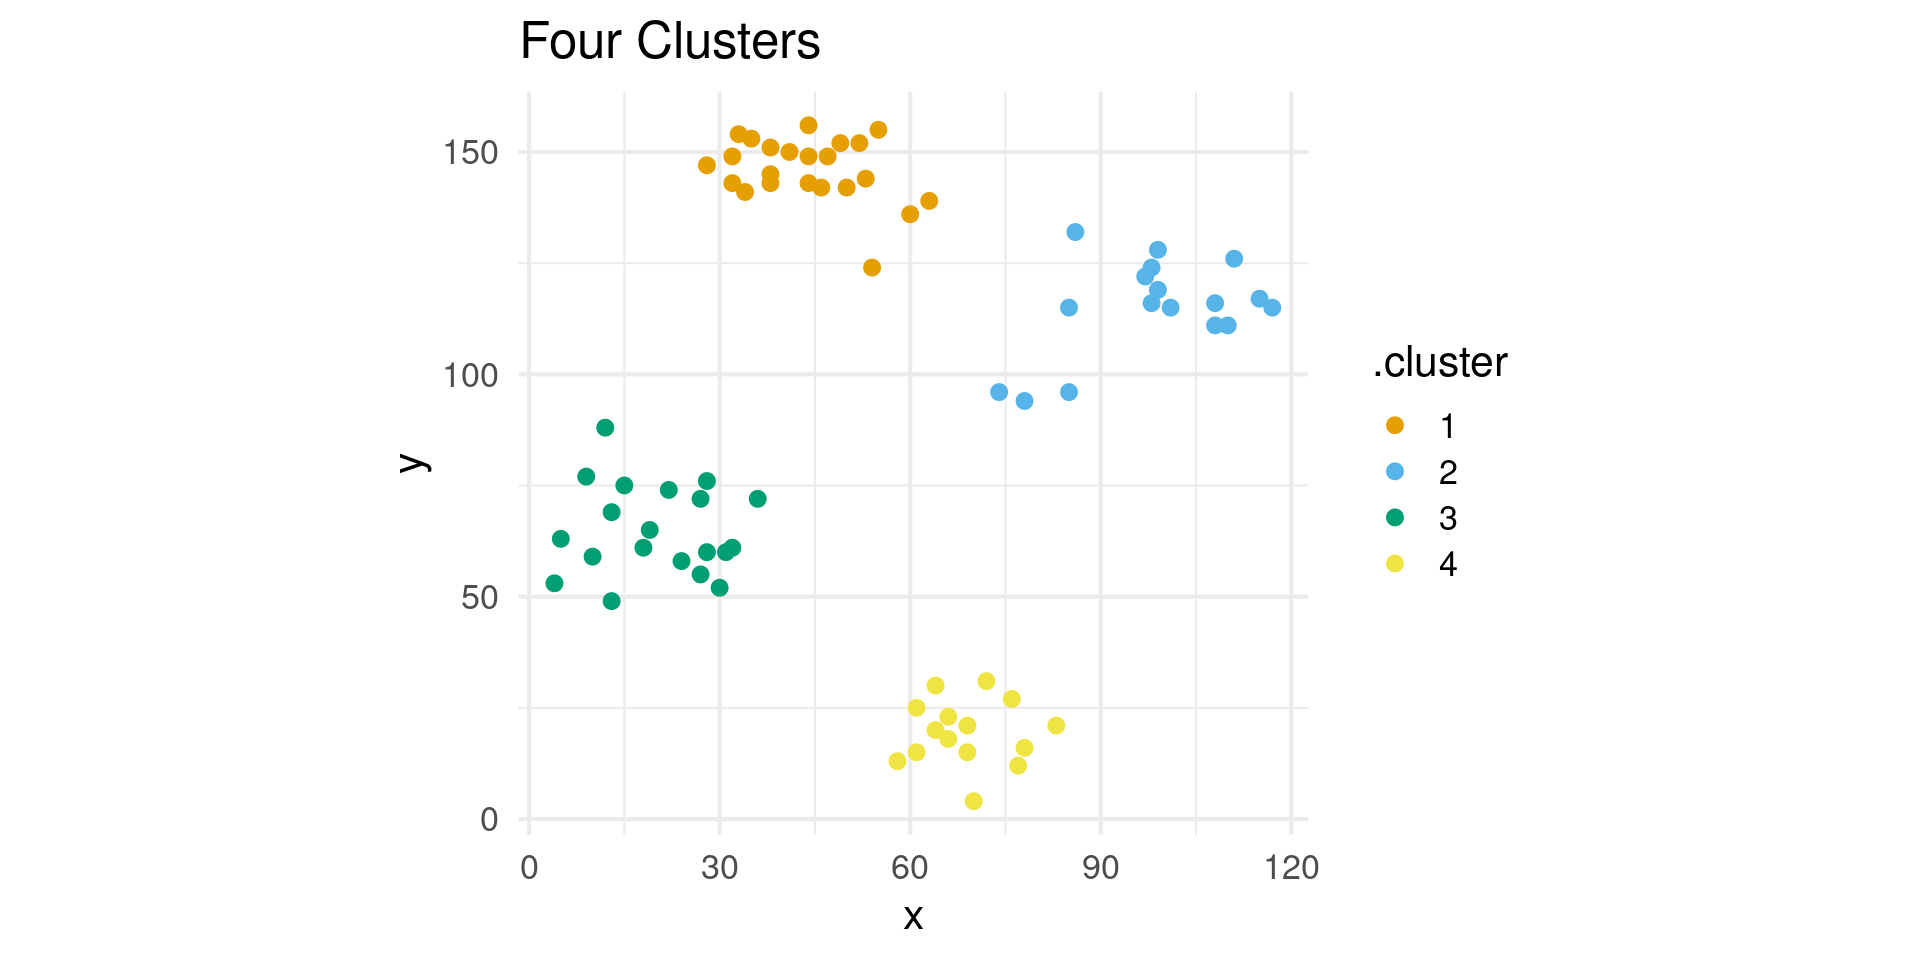
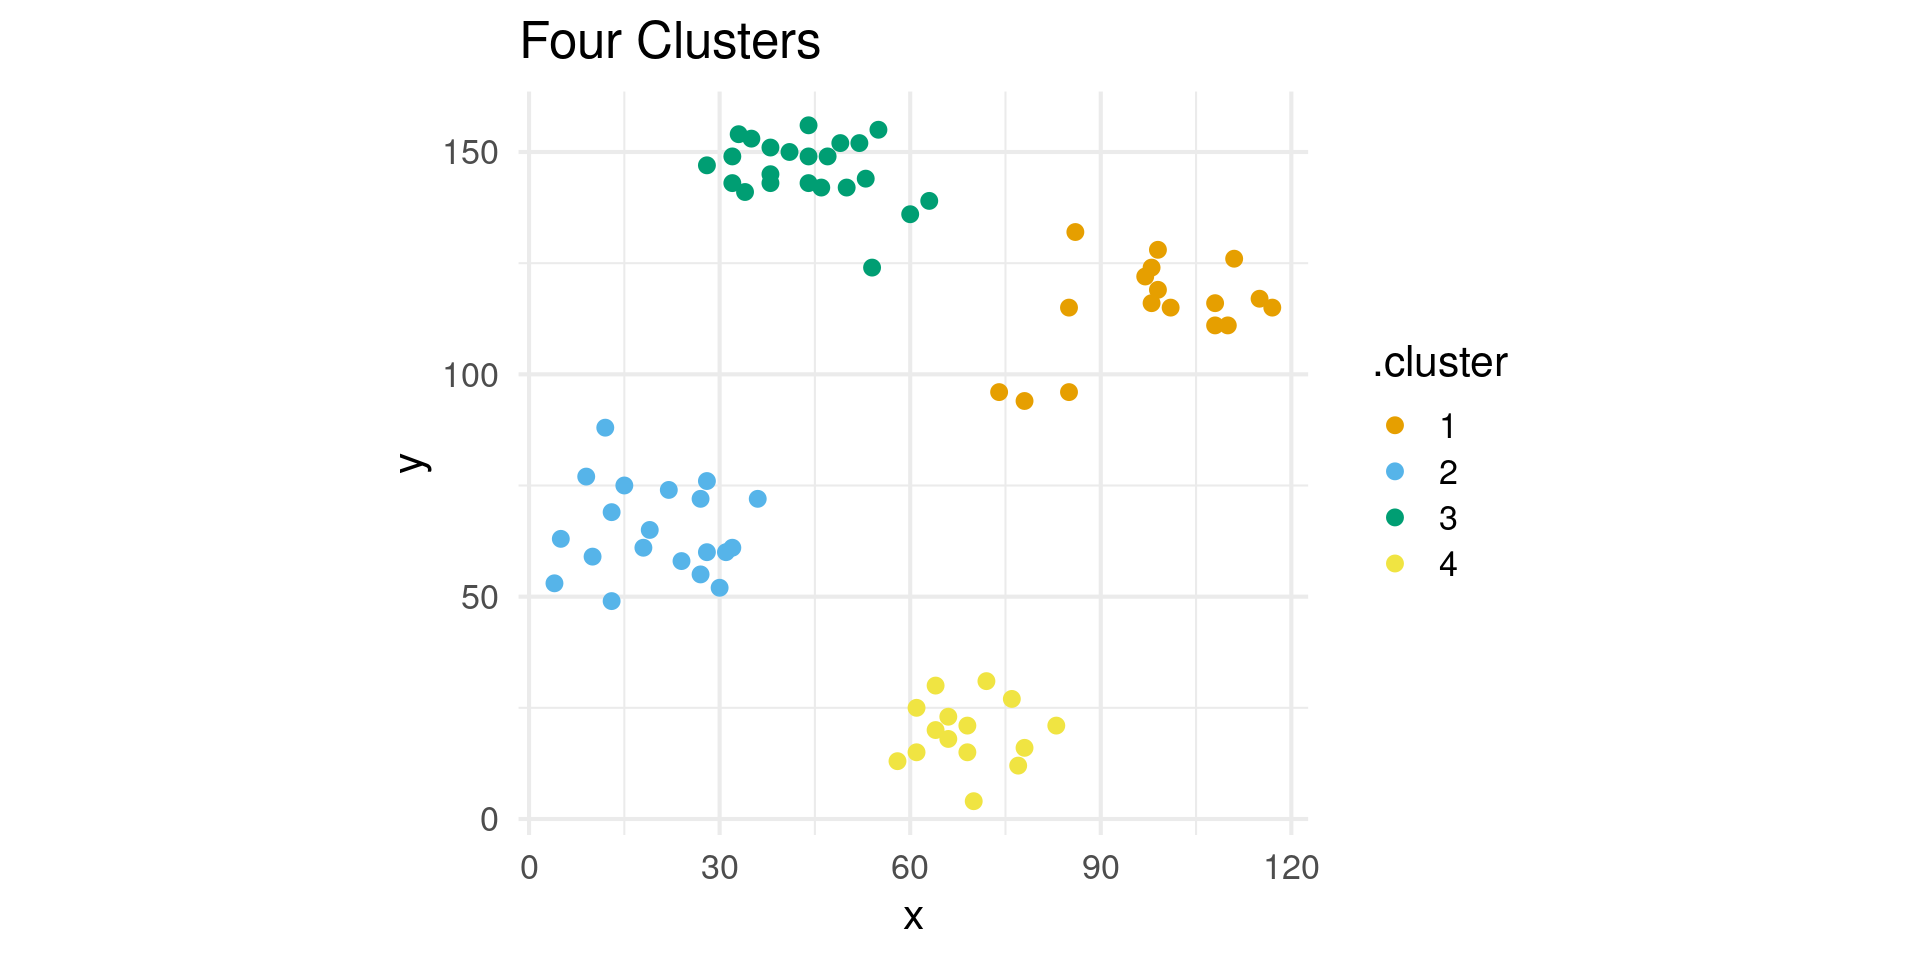
Built site for gh-pages

diff --git a/meetups/meetup-11/meetup-11.html b/meetups/meetup-11/meetup-11.html
@@ -412,8 +412,18 @@ George I. Hagstrom
 <li>Talking about clustering today</li>
 </ul>
 </section>
-<section id="tomorrow-ny-open-statistical-programming-meetup" class="slide level2">
-<h2>Tomorrow! NY Open Statistical Programming Meetup</h2>
+<section id="readings" class="slide level2 smaller">
+<h2>Readings</h2>
+<ul>
+<li><a href="https://mhahsler.github.io/Introduction_to_Data_Mining_R_Examples/book/cluster-analysis.html">R Companion chapter on cluster analysis in Introduction to Data Mining</a></li>
+<li>Wikipedia: <a href="https://en.wikipedia.org/wiki/K-means_clustering">k-means clustering</a></li>
+<li>Naftali Harris blog post: <a href="https://www.naftaliharris.com/blog/visualizing-k-means-clustering/">Interactive k-means demonstration</a></li>
+<li>Stackoverflow post: <a href="https://stackoverflow.com/questions/15376075/cluster-analysis-in-r-determine-the-optimal-number-of-clusters/15376462#15376462">Determining the appropriate number of clusters in k-means</a></li>
+<li>Medium article: <a href="https://towardsdatascience.com/the-5-clustering-algorithms-data-scientists-need-to-know-a36d136ef68">The 5 Clustering Algorithms Data Scientists Need to Know</a></li>
+</ul>
+</section>
+<section id="tomorrow-nyhackr-meetup" class="slide level2">
+<h2>Tomorrow! nyhackr meetup</h2>
 <ul>
 <li>Tuesday, November 10th, 6:30-8:30+</li>
 <li>Great Networking/Learning Opportunity</li>
@@ -424,6 +434,16 @@ George I. Hagstrom
 <h2>November 19th!</h2>
 
 <img data-src="Nov2026Seminar.png" class="r-stretch"></section>
+<section id="tuesday-december-15th" class="slide level2">
+<h2>Tuesday December 15th!</h2>
+<ul>
+<li>Joe Sabelja: What is AI?</li>
+<li>Capstone Showcase!
+<ul>
+<li>Presentations from Graduating Students!</li>
+</ul></li>
+</ul>
+</section>
 <section id="clustering-and-dim.-reduction" class="slide level2 smaller">
 <h2>Clustering and Dim. Reduction</h2>
 <ul>
@@ -665,31 +685,31 @@ George I. Hagstrom
 <span id="cb1-5"><a></a></span>
 <span id="cb1-6"><a></a>wine_clusters</span></code><button title="Copy to Clipboard" class="code-copy-button"><i class="bi"></i></button></pre></div>
 <div class="cell-output cell-output-stdout">
-<pre><code>K-means clustering with 3 clusters of sizes 51, 62, 65
+<pre><code>K-means clustering with 3 clusters of sizes 51, 65, 62
 
 Cluster means:
    .fittedPC1 .fittedPC2   .fittedPC3  .fittedPC4  .fittedPC5  .fittedPC6
 1  2.71238444 -1.1224849 -0.238420685  0.06228125 -0.07346875  0.09964414
-2 -2.26979079 -0.9294322  0.001523733 -0.13511700  0.13453261 -0.21766922
-3  0.03685265  1.7672542  0.185615130  0.08001400 -0.07067870  0.12944063
+2  0.03685265  1.7672542  0.185615130  0.08001400 -0.07067870  0.12944063
+3 -2.26979079 -0.9294322  0.001523733 -0.13511700  0.13453261 -0.21766922
     .fittedPC7   .fittedPC8  .fittedPC9 .fittedPC10  .fittedPC11  .fittedPC12
 1 -0.060213318 -0.007367207 -0.01997059  0.06129547  0.008093155  0.003445464
-2  0.051963343  0.024894027  0.05014407 -0.07446923 -0.021230820 -0.007417378
-3 -0.002320739 -0.017964647 -0.03216049  0.02293882  0.013900922  0.004371673
+2 -0.002320739 -0.017964647 -0.03216049  0.02293882  0.013900922  0.004371673
+3  0.051963343  0.024894027  0.05014407 -0.07446923 -0.021230820 -0.007417378
    .fittedPC13
 1  0.050408713
-2 -0.050476861
-3  0.008595707
+2  0.008595707
+3 -0.050476861
 
 Clustering vector:
-  [1] 2 2 2 2 2 2 2 2 2 2 2 2 2 2 2 2 2 2 2 2 2 2 2 2 2 2 2 2 2 2 2 2 2 2 2 2 2
- [38] 2 2 2 2 2 2 2 2 2 2 2 2 2 2 2 2 2 2 2 2 2 2 3 3 1 3 3 3 3 3 3 3 3 3 3 3 2
- [75] 3 3 3 3 3 3 3 3 3 1 3 3 3 3 3 3 3 3 3 3 3 2 3 3 3 3 3 3 3 3 3 3 3 3 3 3 3
-[112] 3 3 3 3 3 3 3 1 3 3 2 3 3 3 3 3 3 3 3 1 1 1 1 1 1 1 1 1 1 1 1 1 1 1 1 1 1
+  [1] 3 3 3 3 3 3 3 3 3 3 3 3 3 3 3 3 3 3 3 3 3 3 3 3 3 3 3 3 3 3 3 3 3 3 3 3 3
+ [38] 3 3 3 3 3 3 3 3 3 3 3 3 3 3 3 3 3 3 3 3 3 3 2 2 1 2 2 2 2 2 2 2 2 2 2 2 3
+ [75] 2 2 2 2 2 2 2 2 2 1 2 2 2 2 2 2 2 2 2 2 2 3 2 2 2 2 2 2 2 2 2 2 2 2 2 2 2
+[112] 2 2 2 2 2 2 2 1 2 2 3 2 2 2 2 2 2 2 2 1 1 1 1 1 1 1 1 1 1 1 1 1 1 1 1 1 1
 [149] 1 1 1 1 1 1 1 1 1 1 1 1 1 1 1 1 1 1 1 1 1 1 1 1 1 1 1 1 1 1
 
 Within cluster sum of squares by cluster:
-[1] 326.3537 385.6983 558.6971
+[1] 326.3537 558.6971 385.6983
  (between_SS / total_SS =  44.8 %)
 
 Available components:
@@ -716,10 +736,10 @@ Available components:
 <div class="cell">
 <div class="sourceCode cell-code" id="cb3"><pre class="sourceCode numberSource r number-lines code-with-copy"><code class="sourceCode r"><span id="cb3-1"><a></a>wine_clusters<span class="sc">$</span>cluster </span></code><button title="Copy to Clipboard" class="code-copy-button"><i class="bi"></i></button></pre></div>
 <div class="cell-output cell-output-stdout">
-<pre><code>  [1] 2 2 2 2 2 2 2 2 2 2 2 2 2 2 2 2 2 2 2 2 2 2 2 2 2 2 2 2 2 2 2 2 2 2 2 2 2
- [38] 2 2 2 2 2 2 2 2 2 2 2 2 2 2 2 2 2 2 2 2 2 2 3 3 1 3 3 3 3 3 3 3 3 3 3 3 2
- [75] 3 3 3 3 3 3 3 3 3 1 3 3 3 3 3 3 3 3 3 3 3 2 3 3 3 3 3 3 3 3 3 3 3 3 3 3 3
-[112] 3 3 3 3 3 3 3 1 3 3 2 3 3 3 3 3 3 3 3 1 1 1 1 1 1 1 1 1 1 1 1 1 1 1 1 1 1
+<pre><code>  [1] 3 3 3 3 3 3 3 3 3 3 3 3 3 3 3 3 3 3 3 3 3 3 3 3 3 3 3 3 3 3 3 3 3 3 3 3 3
+ [38] 3 3 3 3 3 3 3 3 3 3 3 3 3 3 3 3 3 3 3 3 3 3 2 2 1 2 2 2 2 2 2 2 2 2 2 2 3
+ [75] 2 2 2 2 2 2 2 2 2 1 2 2 2 2 2 2 2 2 2 2 2 3 2 2 2 2 2 2 2 2 2 2 2 2 2 2 2
+[112] 2 2 2 2 2 2 2 1 2 2 3 2 2 2 2 2 2 2 2 1 1 1 1 1 1 1 1 1 1 1 1 1 1 1 1 1 1
 [149] 1 1 1 1 1 1 1 1 1 1 1 1 1 1 1 1 1 1 1 1 1 1 1 1 1 1 1 1 1 1</code></pre>
 </div>
 </div>
@@ -734,16 +754,16 @@ Available components:
 <div class="cell-output cell-output-stdout">
 <pre><code>   .fittedPC1 .fittedPC2   .fittedPC3  .fittedPC4  .fittedPC5  .fittedPC6
 1  2.71238444 -1.1224849 -0.238420685  0.06228125 -0.07346875  0.09964414
-2 -2.26979079 -0.9294322  0.001523733 -0.13511700  0.13453261 -0.21766922
-3  0.03685265  1.7672542  0.185615130  0.08001400 -0.07067870  0.12944063
+2  0.03685265  1.7672542  0.185615130  0.08001400 -0.07067870  0.12944063
+3 -2.26979079 -0.9294322  0.001523733 -0.13511700  0.13453261 -0.21766922
     .fittedPC7   .fittedPC8  .fittedPC9 .fittedPC10  .fittedPC11  .fittedPC12
 1 -0.060213318 -0.007367207 -0.01997059  0.06129547  0.008093155  0.003445464
-2  0.051963343  0.024894027  0.05014407 -0.07446923 -0.021230820 -0.007417378
-3 -0.002320739 -0.017964647 -0.03216049  0.02293882  0.013900922  0.004371673
+2 -0.002320739 -0.017964647 -0.03216049  0.02293882  0.013900922  0.004371673
+3  0.051963343  0.024894027  0.05014407 -0.07446923 -0.021230820 -0.007417378
    .fittedPC13
 1  0.050408713
-2 -0.050476861
-3  0.008595707</code></pre>
+2  0.008595707
+3 -0.050476861</code></pre>
 </div>
 </div>
 </section>
@@ -757,16 +777,16 @@ Available components:
 <div class="cell-output cell-output-stdout">
 <pre><code>   .fittedPC1 .fittedPC2   .fittedPC3  .fittedPC4  .fittedPC5  .fittedPC6
 1  2.71238444 -1.1224849 -0.238420685  0.06228125 -0.07346875  0.09964414
-2 -2.26979079 -0.9294322  0.001523733 -0.13511700  0.13453261 -0.21766922
-3  0.03685265  1.7672542  0.185615130  0.08001400 -0.07067870  0.12944063
+2  0.03685265  1.7672542  0.185615130  0.08001400 -0.07067870  0.12944063
+3 -2.26979079 -0.9294322  0.001523733 -0.13511700  0.13453261 -0.21766922
     .fittedPC7   .fittedPC8  .fittedPC9 .fittedPC10  .fittedPC11  .fittedPC12
 1 -0.060213318 -0.007367207 -0.01997059  0.06129547  0.008093155  0.003445464
-2  0.051963343  0.024894027  0.05014407 -0.07446923 -0.021230820 -0.007417378
-3 -0.002320739 -0.017964647 -0.03216049  0.02293882  0.013900922  0.004371673
+2 -0.002320739 -0.017964647 -0.03216049  0.02293882  0.013900922  0.004371673
+3  0.051963343  0.024894027  0.05014407 -0.07446923 -0.021230820 -0.007417378
    .fittedPC13
 1  0.050408713
-2 -0.050476861
-3  0.008595707</code></pre>
+2  0.008595707
+3 -0.050476861</code></pre>
 </div>
 </div>
 </section>
@@ -783,7 +803,7 @@ Available components:
 <div class="cell">
 <div class="sourceCode cell-code" id="cb9"><pre class="sourceCode numberSource r number-lines code-with-copy"><code class="sourceCode r"><span id="cb9-1"><a></a>wine_clusters<span class="sc">$</span>withinss</span></code><button title="Copy to Clipboard" class="code-copy-button"><i class="bi"></i></button></pre></div>
 <div class="cell-output cell-output-stdout">
-<pre><code>[1] 326.3537 385.6983 558.6971</code></pre>
+<pre><code>[1] 326.3537 558.6971 385.6983</code></pre>
 </div>
 <div class="sourceCode cell-code" id="cb11"><pre class="sourceCode numberSource r number-lines code-with-copy"><code class="sourceCode r"><span id="cb11-1"><a></a>wine_clusters<span class="sc">$</span>totss</span></code><button title="Copy to Clipboard" class="code-copy-button"><i class="bi"></i></button></pre></div>
 <div class="cell-output cell-output-stdout">
@@ -869,7 +889,7 @@ Available components:
 <span id="cb15-15"><a></a>       <span class="at">x =</span> <span class="st">"Number of Clusters"</span>)</span></code><button title="Copy to Clipboard" class="code-copy-button"><i class="bi"></i></button></pre></div>
 </div>
 </section>
-<section id="interpreting-clusters" class="slide level2">
+<section id="interpreting-clusters" class="slide level2 smaller">
 <h2>Interpreting Clusters</h2>
 <ul>
 <li>Goal of clustering is often to gain insight.</li>
@@ -879,25 +899,19 @@ Available components:
 <section id="interpreting-clusters-1" class="slide level2">
 <h2>Interpreting Clusters</h2>
 <ul>
-<li>Takes some tricky to understand code to transform the PCA coordinates:</li>
+<li>Average the labelled points of each cluster to get the centers in real space</li>
+<li>Alternatively can use linear algebra and the PCA transformation</li>
 </ul>
 <div class="cell">
-<div class="sourceCode cell-code" id="cb16"><pre class="sourceCode numberSource r number-lines code-with-copy"><code class="sourceCode r"><span id="cb16-1"><a></a>wine_df_2 <span class="ot">=</span> wine_df <span class="sc">|&gt;</span> <span class="fu">select</span>(<span class="sc">-</span>Type)</span>
-<span id="cb16-2"><a></a>centers_df <span class="ot">=</span> <span class="fu">t</span>(<span class="fu">t</span>(wine_clusters<span class="sc">$</span>centers <span class="sc">%*%</span> <span class="fu">t</span>(pca_fit<span class="sc">$</span>rotation)) <span class="sc">*</span></span>
-<span id="cb16-3"><a></a>            pca_fit<span class="sc">$</span>scale <span class="sc">+</span> pca_fit<span class="sc">$</span>center) <span class="sc">|&gt;</span> </span>
-<span id="cb16-4"><a></a>  <span class="fu">as_tibble</span>() <span class="sc">|&gt;</span> </span>
-<span id="cb16-5"><a></a>  <span class="fu">bind_rows</span>(wine_df_2) <span class="sc">|&gt;</span> </span>
-<span id="cb16-6"><a></a>  <span class="fu">scale</span>() <span class="sc">|&gt;</span> </span>
-<span id="cb16-7"><a></a>  <span class="fu">as_tibble</span>() <span class="sc">|&gt;</span> </span>
-<span id="cb16-8"><a></a>  <span class="fu">head</span>(<span class="at">n=</span><span class="dv">3</span>) <span class="sc">|&gt;</span></span>
-<span id="cb16-9"><a></a>  <span class="fu">mutate</span>(<span class="at">center =</span> <span class="fu">seq</span>(<span class="dv">1</span><span class="sc">:</span><span class="dv">3</span>))</span></code><button title="Copy to Clipboard" class="code-copy-button"><i class="bi"></i></button></pre></div>
+<div class="sourceCode cell-code" id="cb16"><pre class="sourceCode numberSource r number-lines code-with-copy"><code class="sourceCode r"><span id="cb16-1"><a></a>wine_scaled <span class="ot">=</span> wine_df <span class="sc">|&gt;</span> <span class="fu">select</span>(<span class="sc">-</span>Type) <span class="sc">|&gt;</span> <span class="fu">scale</span>() <span class="sc">|&gt;</span> <span class="fu">as_tibble</span>()</span>
+<span id="cb16-2"><a></a></span>
+<span id="cb16-3"><a></a>centers_df <span class="ot">=</span> wine_clusters <span class="sc">|&gt;</span> </span>
+<span id="cb16-4"><a></a>  <span class="fu">augment</span>(wine_scaled) <span class="sc">|&gt;</span> </span>
+<span id="cb16-5"><a></a>  <span class="fu">group_by</span>(.cluster) <span class="sc">|&gt;</span> </span>
+<span id="cb16-6"><a></a>  <span class="fu">summarise</span>(<span class="fu">across</span>(<span class="fu">everything</span>(), mean))</span></code><button title="Copy to Clipboard" class="code-copy-button"><i class="bi"></i></button></pre></div>
 </div>
-<ul>
-<li><code>t(t(wine_clusters$centers %*% t(pca_fit$rotation)) * pca_fit$scale + pca_fit$center)</code> coordinate transformation</li>
-<li><code>scale</code> enables visualization of variables together</li>
-</ul>
 </section>
-<section id="interpreting-clusters-2" class="slide level2">
+<section id="interpreting-clusters-2" class="slide level2 smaller">
 <h2>Interpreting Clusters</h2>
 <div class="cell">
 <div class="sourceCode cell-code" id="cb17"><pre class="sourceCode numberSource r number-lines code-with-copy"><code class="sourceCode r"><span id="cb17-1"><a></a>centers_df <span class="sc">|&gt;</span> <span class="fu">pivot_longer</span>(</span>
@@ -923,6 +937,29 @@ Available components:
 </ul>
 
 <img data-src="meetup-11_files/figure-revealjs/unnamed-chunk-23-1.png" width="960" class="r-stretch"></section>
+<section id="annotating-clusters-1" class="slide level2">
+<h2>Annotating Clusters</h2>
+<ul>
+<li><code>geom_mark_ellipse</code> to draw circles around clusters</li>
+</ul>
+<div class="cell">
+<div class="sourceCode cell-code" id="cb18"><pre class="sourceCode numberSource r number-lines code-with-copy"><code class="sourceCode r"><span id="cb18-1"><a></a><span class="fu">library</span>(ggforce)</span>
+<span id="cb18-2"><a></a></span>
+<span id="cb18-3"><a></a></span>
+<span id="cb18-4"><a></a>plot_df <span class="ot">=</span> pca_fit<span class="sc">|&gt;</span> </span>
+<span id="cb18-5"><a></a>    <span class="fu">augment</span>(wine_df) <span class="sc">|&gt;</span> </span>
+<span id="cb18-6"><a></a>  <span class="fu">select</span>(.fittedPC1<span class="sc">:</span>.fittedPC13)</span>
+<span id="cb18-7"><a></a></span>
+<span id="cb18-8"><a></a>wine_clusters <span class="ot">=</span> plot_df <span class="sc">|&gt;</span> <span class="fu">kmeans</span>(<span class="at">centers =</span> <span class="dv">3</span>,<span class="at">nstart=</span><span class="dv">10</span>)</span>
+<span id="cb18-9"><a></a></span>
+<span id="cb18-10"><a></a>wine_clusters <span class="sc">|&gt;</span> <span class="fu">augment</span>(plot_df) <span class="sc">|&gt;</span> <span class="fu">ggplot</span>(<span class="fu">aes</span>(.fittedPC1,.fittedPC2,<span class="at">color=</span>.cluster)) <span class="sc">+</span><span class="fu">geom_point</span>() <span class="sc">+</span></span>
+<span id="cb18-11"><a></a>  <span class="fu">geom_mark_ellipse</span>(<span class="fu">aes</span>(<span class="at">fill=</span><span class="fu">as_factor</span>(.cluster)),<span class="at">alpha =</span> <span class="fl">0.3</span>) <span class="sc">+</span></span>
+<span id="cb18-12"><a></a>  <span class="fu">scale_color_discrete</span>(<span class="at">guide =</span> <span class="st">"none"</span>) <span class="sc">+</span></span>
+<span id="cb18-13"><a></a>  <span class="fu">scale_fill_discrete</span>(<span class="at">guide =</span> <span class="st">"none"</span>) <span class="sc">+</span></span>
+<span id="cb18-14"><a></a>  <span class="fu">theme_minimal</span>(<span class="at">base_size=</span><span class="dv">16</span>) <span class="sc">+</span></span>
+<span id="cb18-15"><a></a>  <span class="fu">labs</span>(<span class="at">title =</span> <span class="st">"Wine Clusters drawn with ellipses"</span>)</span></code><button title="Copy to Clipboard" class="code-copy-button"><i class="bi"></i></button></pre></div>
+</div>
+</section>
 <section id="k-means-tips-and-pitfalls" class="slide level2">
 <h2>k-means tips and pitfalls</h2>
 <ul>
